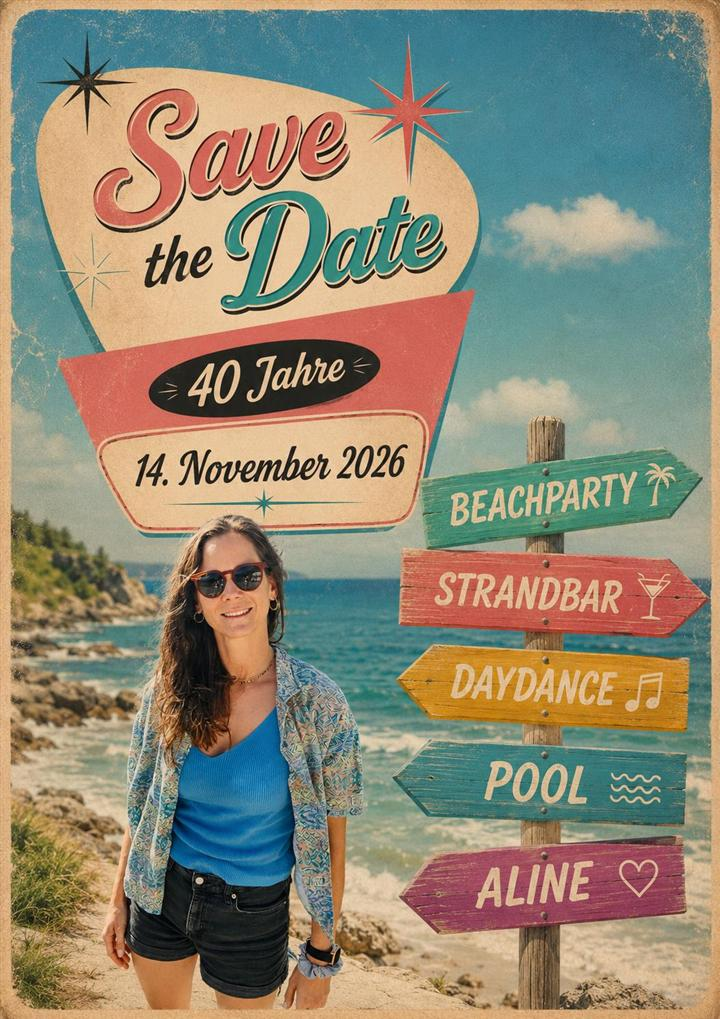
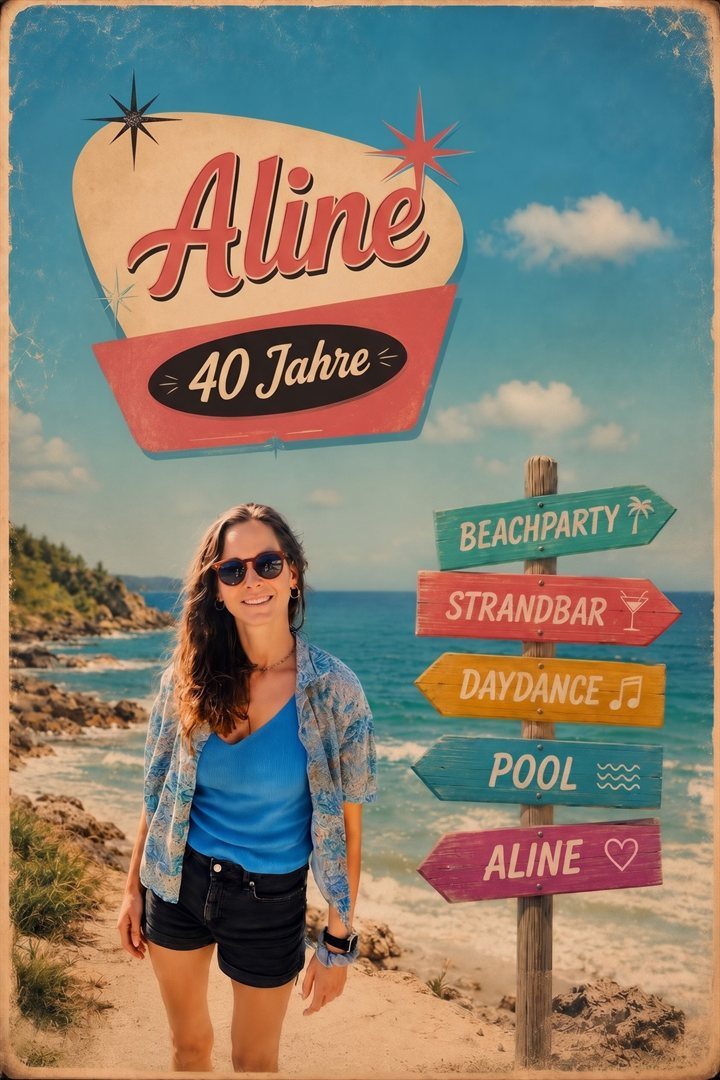
Neues Titelbild (Aline 40 Jahre Beachparty)

diff --git a/index.html b/index.html
@@ -53,7 +53,7 @@
 </head>
 <body>
 <div class="wrap">
-  <div class="poster"><img src="poster.jpg" alt="Save the Date – Aline wird 40, Beachparty am 14. November 2026"></div>
+  <div class="poster"><img src="poster.jpg" alt="Aline – 40 Jahre Beachparty"></div>
 
   <h1>Party-Fotos</h1>
   <p class="sub">Lade deine Schnappschüsse hoch –<br>sie erscheinen live auf der Leinwand 🌴</p>
